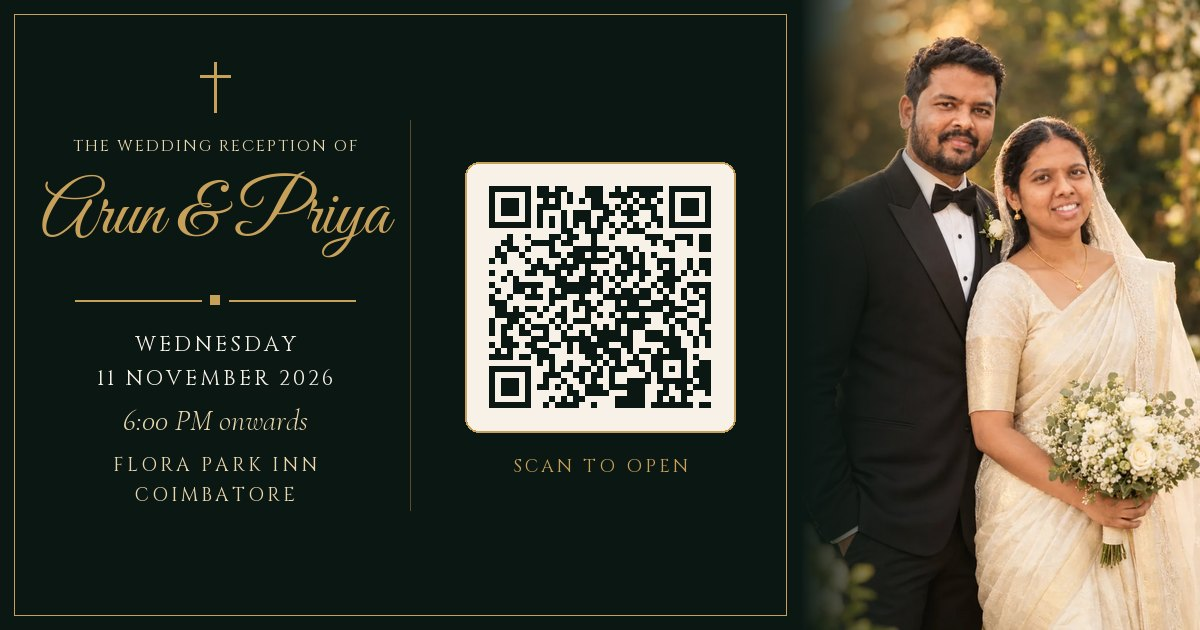
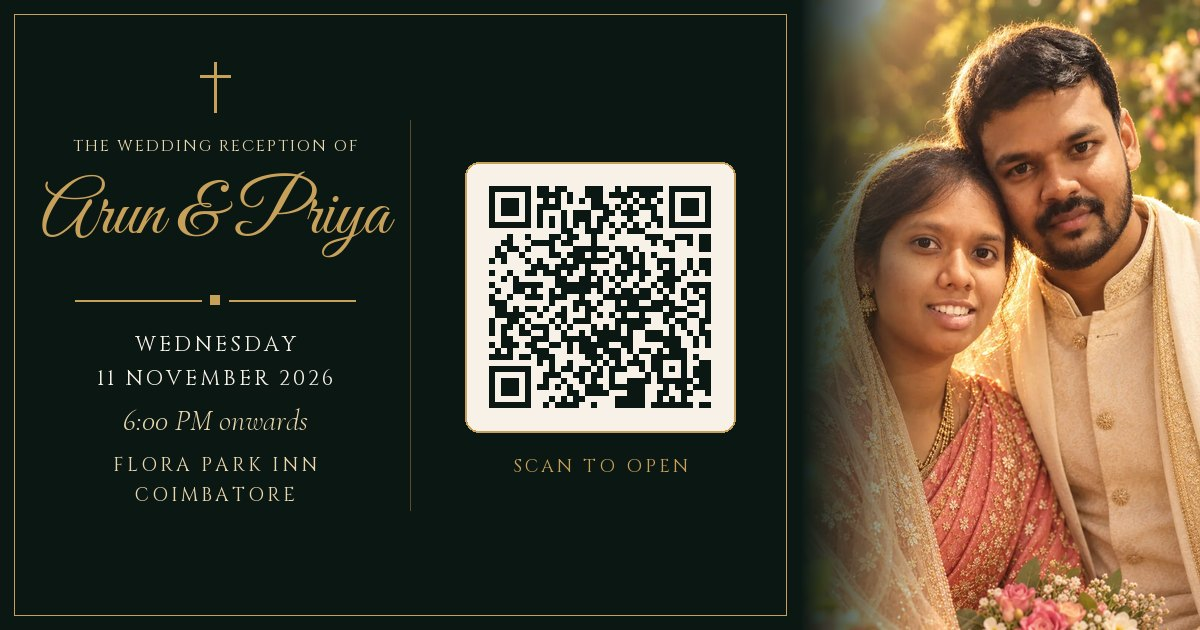
Use only real couple photos; drop AI-generated face photos
Hero and gallery 01 use the new garden portrait, welcome uses In the
Garden, event details uses Among the Flowers. Share card regenerated.

Changed region(s): [[0.6783, 0.0, 1.0, 1.0]]

diff --git a/index.html b/index.html
@@ -114,7 +114,7 @@
       <figure class="hero-portrait" data-parallax="-0.06">
         <svg class="arch-frame" viewBox="0 0 100 122" preserveAspectRatio="none" aria-hidden="true"><path class="draw" d="M1 121V50A49 49 0 0 1 99 50V121"/></svg>
         <div class="arch">
-          <img src="images/hero.webp" width="1122" height="1402" alt="Arun in a black tuxedo and Priya in an ivory silk saree and veil, holding a white bouquet in a sunlit garden" fetchpriority="high">
+          <img src="images/hero.webp" width="1085" height="1450" alt="Priya in a rose-pink saree and lace veil resting her head beside Arun in a cream sherwani, in a sunlit garden with flowers" fetchpriority="high">
         </div>
         <span class="sprig sprig-hero" aria-hidden="true"></span>
       </figure>
@@ -131,7 +131,7 @@
     <div class="container welcome-grid">
       <figure class="welcome-photo" data-img-reveal>
         <div class="frame-img">
-          <img src="images/story.webp" width="1085" height="1450" alt="Priya in a rose-pink saree and lace veil resting her head beside Arun in a cream sherwani, in a sunlit garden with flowers" loading="lazy" decoding="async">
+          <img src="images/couple-garden.webp" width="500" height="576" alt="Arun and Priya in a garden at golden hour" loading="lazy" decoding="async">
         </div>
         <figcaption>Arun &amp; Priya</figcaption>
       </figure>
@@ -190,10 +190,10 @@
 
       <div class="gallery-grid">
         <figure class="g-item g1" data-img-reveal>
-          <button class="g-open" type="button" data-index="0" aria-label="View photo: Royal Blue Evening">
-            <img src="images/reception.webp" width="1122" height="1402" alt="Arun in a navy bandhgala and Priya in a royal-blue silk saree with jasmine in her hair, foreheads touching" loading="lazy" decoding="async">
+          <button class="g-open" type="button" data-index="0" aria-label="View photo: Golden Hour">
+            <img src="images/hero.webp" width="1085" height="1450" alt="Priya in a rose-pink saree and lace veil resting her head beside Arun in a cream sherwani, in a sunlit garden with flowers" loading="lazy" decoding="async">
           </button>
-          <figcaption><span>01</span> Royal Blue Evening</figcaption>
+          <figcaption><span>01</span> Golden Hour</figcaption>
         </figure>
         <figure class="g-item g2" data-img-reveal>
           <button class="g-open" type="button" data-index="1" aria-label="View photo: The Engagement">
@@ -279,9 +279,9 @@
         </ul>
       </div>
 
-      <!-- Church portrait in an arched window -->
+      <!-- Couple portrait in an arched window -->
       <figure class="chapel" data-img-reveal>
-        <img src="images/church.webp" width="1122" height="1402" alt="Arun in a charcoal three-piece suit and Priya in a white saree and veil at a church altar with a wooden cross and candles" loading="lazy" decoding="async">
+        <img src="images/couple-floral.webp" width="502" height="565" alt="Arun and Priya smiling in front of white and pink flowers" loading="lazy" decoding="async">
       </figure>
     </div>
   </section>

diff --git a/css/style.css b/css/style.css
@@ -303,10 +303,10 @@ svg{display:block;}
 .welcome-photo{position:relative;}
 .welcome-photo::after{
   /* offset gold frame sized to the photo only (not the caption) */
-  content:'';position:absolute;top:18px;left:18px;right:-18px;aspect-ratio:1085/1450;z-index:-1;
+  content:'';position:absolute;top:18px;left:18px;right:-18px;aspect-ratio:500/576;z-index:-1;
   border:1px solid var(--gold-soft);border-radius:4px;
 }
-.frame-img{overflow:hidden;border-radius:4px;aspect-ratio:1085/1450;box-shadow:0 30px 60px -30px rgba(43,42,34,.5);}
+.frame-img{overflow:hidden;border-radius:4px;aspect-ratio:500/576;box-shadow:0 30px 60px -30px rgba(43,42,34,.5);}
 .frame-img img{width:100%;height:100%;object-fit:cover;}
 .welcome-photo figcaption{
   margin-top:30px;font-family:var(--font-caps);font-size:.66rem;letter-spacing:.3em;text-transform:uppercase;color:var(--olive);
@@ -418,7 +418,7 @@ svg{display:block;}
 .fact h3{font-family:var(--font-serif);font-weight:500;font-size:1.3rem;color:var(--ivory);line-height:1.3;}
 .fact p{color:rgba(232,214,174,.82);margin-top:4px;line-height:1.5;}
 
-/* Church portrait framed as an arched chapel window */
+/* Couple portrait framed as an arched chapel window */
 .chapel{
   position:relative;aspect-ratio:1122/1402;max-width:400px;justify-self:center;width:100%;
   border-radius:999px 999px 4px 4px;overflow:hidden;
